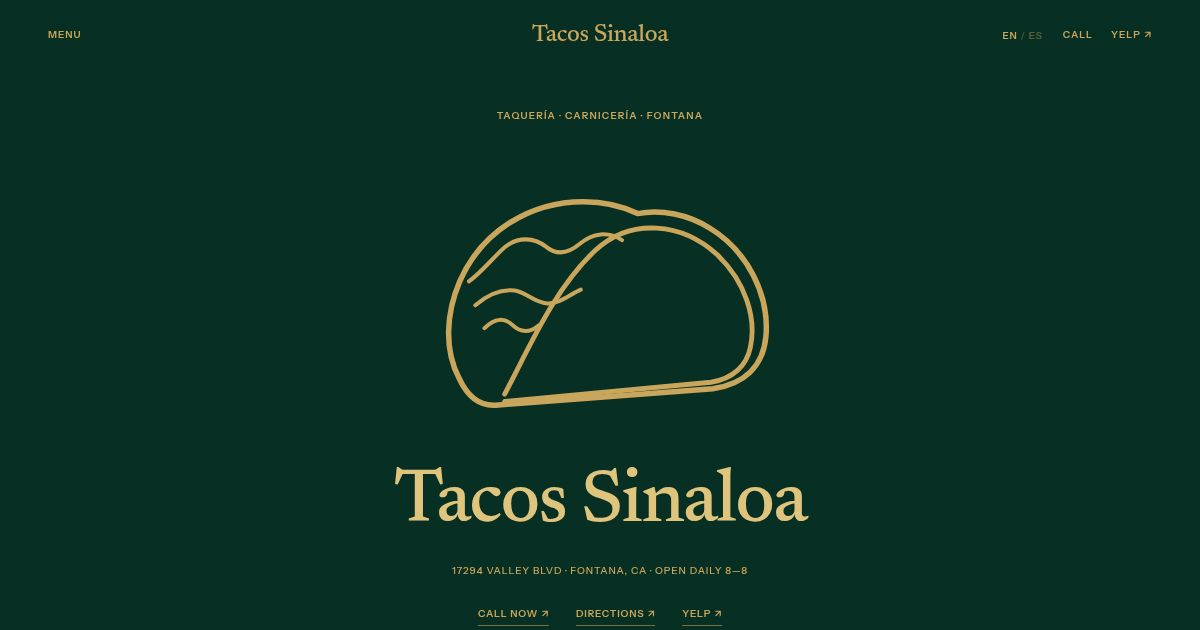
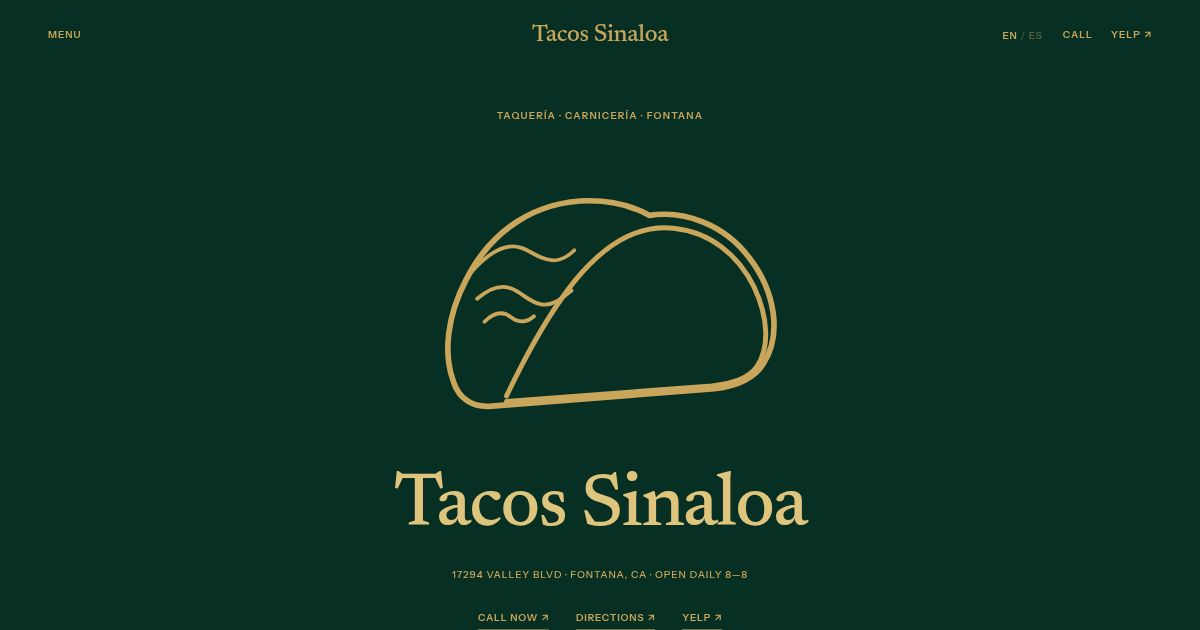
Refine taco mark and motion system v6.2

diff --git a/index.html b/index.html
@@ -22,12 +22,12 @@
 
 <svg class="svg-defs" width="0" height="0" aria-hidden="true">
   <defs>
-    <symbol id="luxuryTacoMark" viewBox="0 0 480 320">
-      <path class="logo-shell" fill="none" stroke="currentColor" stroke-width="6" stroke-linecap="round" stroke-linejoin="round" d="M86 244C70 213 72 174 87 139C111 84 164 52 222 52C243 52 263 56 281 65C307 60 336 66 360 81C401 106 425 154 421 199C418 232 397 251 363 256L126 274C108 275 95 264 86 244Z"/>
-      <path class="logo-face" fill="none" stroke="currentColor" stroke-width="5.3" stroke-linecap="round" stroke-linejoin="round" d="M136 262C163 211 190 147 235 105C274 69 330 75 368 110C399 140 411 179 404 211C400 231 385 245 361 249L136 270"/>
-      <path class="logo-fill" fill="none" stroke="currentColor" stroke-width="4.4" stroke-linecap="round" stroke-linejoin="round" d="M97 139C112 128 123 113 137 101C151 90 168 91 181 101C193 111 205 109 218 98C232 86 249 84 264 94"/>
-      <path class="logo-fill" fill="none" stroke="currentColor" stroke-width="4.4" stroke-linecap="round" stroke-linejoin="round" d="M104 165C118 153 132 147 147 149C160 151 168 162 182 163C196 164 207 153 219 148"/>
-      <path class="logo-fill" fill="none" stroke="currentColor" stroke-width="4.4" stroke-linecap="round" stroke-linejoin="round" d="M114 190C125 179 136 178 145 187C153 195 164 195 173 187"/>
+    <symbol id="luxuryTacoMarkV62" viewBox="0 0 480 320">
+      <path class="logo-shell" fill="none" stroke="currentColor" stroke-width="6.2" stroke-linecap="round" stroke-linejoin="round" d="M80 248C69 218 73 177 94 137C122 82 171 51 229 51C252 51 274 56 294 67C334 61 376 78 402 112C431 149 439 197 418 229C408 245 390 253 365 256L122 275C101 277 86 267 80 248Z"/>
+      <path class="logo-face" fill="none" stroke="currentColor" stroke-width="5.4" stroke-linecap="round" stroke-linejoin="round" d="M138 264C157 224 181 178 212 139C247 96 283 77 320 81C360 85 391 110 408 145C424 179 425 212 411 232C402 245 385 250 362 253L138 270"/>
+      <path class="logo-fill" fill="none" stroke="currentColor" stroke-width="4.2" stroke-linecap="round" stroke-linejoin="round" d="M96 133C111 115 126 103 141 101C155 99 164 108 176 113C190 119 201 116 212 105"/>
+      <path class="logo-fill" fill="none" stroke="currentColor" stroke-width="4.2" stroke-linecap="round" stroke-linejoin="round" d="M106 158C120 146 132 142 144 147C156 152 163 162 176 164C189 166 199 157 209 149"/>
+      <path class="logo-fill" fill="none" stroke="currentColor" stroke-width="4.2" stroke-linecap="round" stroke-linejoin="round" d="M114 183C124 173 134 171 143 178C151 184 160 184 168 177"/>
     </symbol>
   </defs>
 </svg>
@@ -44,85 +44,87 @@
 
 <main id="main">
   <section class="hero" id="top">
-    <div class="hero-eyebrow">TAQUERÍA · CARNICERÍA · FONTANA</div>
-    <svg class="luxury-taco-mark" viewBox="0 0 480 320" role="img" aria-label="Tacos Sinaloa taco emblem"><use href="#luxuryTacoMark"/></svg>
-    <h1>Tacos Sinaloa</h1>
-    <p class="hero-location">17294 VALLEY BLVD · FONTANA, CA · OPEN DAILY 8—8</p>
-    <div class="hero-actions">
-      <a href="tel:+19098236253" data-i18n="call_now">Call now ↗</a>
-      <a href="https://www.google.com/maps/dir/?api=1&destination=17294+Valley+Blvd,+Fontana,+CA+92335" target="_blank" rel="noreferrer" data-i18n="directions">Directions ↗</a>
-      <a href="https://www.yelp.com/search?find_desc=Tacos%20Sinaloa%20Y%20Carniceria&find_loc=17294%20Valley%20Blvd%2C%20Fontana%2C%20CA%2092335" target="_blank" rel="noreferrer">Yelp ↗</a>
+    <div class="hero-core">
+      <div class="hero-eyebrow">TAQUERÍA · CARNICERÍA · FONTANA</div>
+      <svg class="luxury-taco-mark" viewBox="0 0 480 320" role="img" aria-label="Tacos Sinaloa taco emblem"><use href="#luxuryTacoMarkV62"/></svg>
+      <h1>Tacos Sinaloa</h1>
+      <p class="hero-location">17294 VALLEY BLVD · FONTANA, CA · OPEN DAILY 8—8</p>
+      <div class="hero-actions">
+        <a href="tel:+19098236253" data-i18n="call_now">Call now ↗</a>
+        <a href="https://www.google.com/maps/dir/?api=1&destination=17294+Valley+Blvd,+Fontana,+CA+92335" target="_blank" rel="noreferrer" data-i18n="directions">Directions ↗</a>
+        <a href="https://www.yelp.com/search?find_desc=Tacos%20Sinaloa%20Y%20Carniceria&find_loc=17294%20Valley%20Blvd%2C%20Fontana%2C%20CA%2092335" target="_blank" rel="noreferrer">Yelp ↗</a>
+      </div>
     </div>
   </section>
 
-  <section class="facts" aria-label="Business information">
-    <div class="fact">
+  <section class="facts" aria-label="Business information" data-motion-section>
+    <div class="fact" data-motion="reveal">
       <span data-i18n="hours">Hours</span>
       <strong>8:00 AM — 8:00 PM</strong>
       <small data-i18n="daily">Monday — Sunday</small>
     </div>
-    <div class="fact">
+    <div class="fact" data-motion="reveal">
       <span data-i18n="location">Location</span>
       <strong>17294 Valley Blvd</strong>
       <small>Fontana, CA 92335</small>
     </div>
-    <div class="fact">
+    <div class="fact" data-motion="reveal">
       <span data-i18n="phone">Phone</span>
       <strong><a href="tel:+19098236253">(909) 823-6253</a></strong>
       <small data-i18n="call_menu">Call for today's menu</small>
     </div>
   </section>
 
-  <section class="intro-section">
-    <div class="section-copy">
+  <section class="intro-section" data-motion-section>
+    <div class="section-copy" data-motion="reveal">
       <span class="eyebrow">TAQUERÍA + CARNICERÍA</span>
       <h2 data-i18n="intro_title">Taquería &amp; Carnicería</h2>
       <p data-i18n="intro_copy">Mexican food from the kitchen and a carnicería counter under one roof on Valley Blvd.</p>
     </div>
     <div class="editorial-gallery" aria-label="Restaurant photography">
-      <figure class="editorial-photo editorial-one">
+      <figure class="editorial-photo editorial-one" data-motion="image">
         <img src="./assets/tacos-hero.jpg" alt="Tacos from the restaurant" loading="lazy" />
         <figcaption>TAQUERÍA / 01</figcaption>
       </figure>
-      <figure class="editorial-photo editorial-two">
+      <figure class="editorial-photo editorial-two" data-motion="image">
         <img src="./assets/carniceria.jpg" alt="Carnicería counter" loading="lazy" />
         <figcaption>CARNICERÍA / 02</figcaption>
       </figure>
-      <figure class="editorial-photo editorial-three">
+      <figure class="editorial-photo editorial-three" data-motion="image">
         <img src="./assets/tacos.jpg" alt="Prepared tacos" loading="lazy" />
         <figcaption>VALLEY BLVD / 03</figcaption>
       </figure>
     </div>
   </section>
 
-  <section class="menu-section" id="menu">
-    <header class="section-heading">
+  <section class="menu-section" id="menu" data-motion-section>
+    <header class="section-heading" data-motion="reveal">
       <span class="eyebrow" data-i18n="kitchen">From the kitchen</span>
       <h2 data-i18n="menu_title">Menu</h2>
       <p data-i18n="menu_note">Public listings consistently mention these favorites. Call to confirm today's preparation and availability.</p>
     </header>
     <div class="menu-list">
-      <a class="menu-row" href="tel:+19098236253"><span>01</span><strong>Tacos</strong></a>
-      <a class="menu-row" href="tel:+19098236253"><span>02</span><strong>Birria</strong></a>
-      <a class="menu-row" href="tel:+19098236253"><span>03</span><strong>Menudo</strong></a>
-      <a class="menu-row" href="tel:+19098236253"><span>04</span><strong data-i18n="today_menu">Today's Menu</strong></a>
+      <a class="menu-row" data-motion="reveal" href="tel:+19098236253"><span>01</span><strong>Tacos</strong></a>
+      <a class="menu-row" data-motion="reveal" href="tel:+19098236253"><span>02</span><strong>Birria</strong></a>
+      <a class="menu-row" data-motion="reveal" href="tel:+19098236253"><span>03</span><strong>Menudo</strong></a>
+      <a class="menu-row" data-motion="reveal" href="tel:+19098236253"><span>04</span><strong data-i18n="today_menu">Today's Menu</strong></a>
     </div>
   </section>
 
-  <section class="counter-section" id="carniceria">
-    <div class="section-copy">
+  <section class="counter-section" id="carniceria" data-motion-section>
+    <div class="section-copy" data-motion="reveal">
       <span class="eyebrow" data-i18n="counter">From the counter</span>
       <h2 data-i18n="counter_title">Carnicería</h2>
       <p data-i18n="counter_copy">A neighborhood meat counter alongside the taquería. Call or stop in to ask about today's selection.</p>
       <a class="text-link" href="tel:+19098236253" data-i18n="ask_counter">Ask the counter ↗</a>
     </div>
-    <figure class="counter-photo">
+    <figure class="counter-photo" data-motion="image">
       <img src="./assets/carniceria.jpg" alt="Meat counter at Tacos Sinaloa y Carnicería" loading="lazy" />
       <figcaption>CARNICERÍA / FONTANA</figcaption>
     </figure>
   </section>
 
-  <section class="visit-section" id="visit">
+  <section class="visit-section" id="visit" data-motion-section data-motion="reveal">
     <span class="eyebrow" data-i18n="visit">Visit</span>
     <h2 data-i18n="visit_title">Valley Blvd., Fontana</h2>
     <address>Tacos Sinaloa y Carnicería<br/>17294 Valley Blvd<br/>Fontana, CA 92335</address>
@@ -134,8 +136,8 @@
   </section>
 </main>
 
-<footer class="footer">
-  <svg class="footer-mark" viewBox="0 0 480 320" aria-hidden="true"><use href="#luxuryTacoMark"/></svg>
+<footer class="footer" data-motion-section data-motion="reveal">
+  <svg class="footer-mark" viewBox="0 0 480 320" aria-hidden="true"><use href="#luxuryTacoMarkV62"/></svg>
   <a href="#top" class="footer-brand">Tacos Sinaloa</a>
   <div class="footer-meta"><span>TAQUERÍA · CARNICERÍA · FONTANA</span><span>© <b id="year"></b></span></div>
 </footer>

diff --git a/styles.css b/styles.css
@@ -77,7 +77,46 @@ button,a{-webkit-tap-highlight-color:transparent}
 .footer-meta{width:100%;display:flex;justify-content:space-between;font:600 9px var(--sans);letter-spacing:.09em;text-transform:uppercase;margin-top:42px}
 .mobile-bar{display:none;opacity:0;transform:translateY(12px);transition:opacity .22s ease,transform .22s ease}
 
-@media(prefers-reduced-motion:reduce){*,*::before,*::after{animation:none!important;transition:none!important;scroll-behavior:auto!important}}
+
+/* v6.2 motion system: identity-led, progressive, no scroll hijacking */
+.hero-core{will-change:transform;transform-origin:50% 48%}
+.motion-ready .hero-eyebrow,
+.motion-ready .luxury-taco-mark,
+.motion-ready .hero h1,
+.motion-ready .hero-location,
+.motion-ready .hero-actions{opacity:0;transform:translateY(10px);transition:opacity .72s cubic-bezier(.2,.7,.2,1),transform .72s cubic-bezier(.2,.7,.2,1)}
+.motion-ready .luxury-taco-mark{transform:translateY(10px) scale(.97)}
+.motion-ready.hero-entered .hero-eyebrow{opacity:1;transform:none;transition-delay:.05s}
+.motion-ready.hero-entered .luxury-taco-mark{opacity:1;transform:none;transition-delay:.14s}
+.motion-ready.hero-entered .hero h1{opacity:1;transform:none;transition-delay:.24s}
+.motion-ready.hero-entered .hero-location{opacity:1;transform:none;transition-delay:.32s}
+.motion-ready.hero-entered .hero-actions{opacity:1;transform:none;transition-delay:.40s}
+
+.motion-ready [data-motion="reveal"]{opacity:0;transform:translateY(18px);transition:opacity .68s cubic-bezier(.2,.7,.2,1),transform .68s cubic-bezier(.2,.7,.2,1)}
+.motion-ready [data-motion="reveal"].is-visible{opacity:1;transform:none}
+
+[data-motion="image"]{overflow:hidden}
+.motion-ready [data-motion="image"]{clip-path:inset(0 100% 0 0);transition:clip-path .82s cubic-bezier(.65,0,.25,1)}
+.motion-ready [data-motion="image"] img{transform:scale(1.025);transition:transform 1s cubic-bezier(.2,.7,.2,1)}
+.motion-ready [data-motion="image"].is-visible{clip-path:inset(0 0 0 0)}
+.motion-ready [data-motion="image"].is-visible img{transform:scale(1)}
+
+section[data-motion-section],footer[data-motion-section]{position:relative}
+section[data-motion-section]::before,footer[data-motion-section]::before{content:"";position:absolute;top:0;left:var(--pad);height:1px;width:0;background:var(--gold-muted);transition:width .82s cubic-bezier(.65,0,.25,1)}
+.motion-ready section[data-motion-section].is-motion-visible::before,
+.motion-ready footer[data-motion-section].is-motion-visible::before{width:calc(100% - (var(--pad) * 2))}
+
+.menu-row strong{transition:transform .2s ease,color .2s ease}
+.menu-row:hover,.menu-row:focus-visible{padding-left:0}
+.menu-row:hover strong,.menu-row:focus-visible strong{transform:translateX(6px);color:var(--gold-bright)}
+.menu-row:focus-visible{outline-offset:-3px}
+\n@media(prefers-reduced-motion:reduce){
+  *,*::before,*::after{animation:none!important;transition:none!important;scroll-behavior:auto!important}
+  .motion-ready .hero-eyebrow,.motion-ready .luxury-taco-mark,.motion-ready .hero h1,.motion-ready .hero-location,.motion-ready .hero-actions,
+  .motion-ready [data-motion="reveal"],.motion-ready [data-motion="image"]{opacity:1!important;transform:none!important;clip-path:none!important}
+  .motion-ready [data-motion="image"] img{transform:none!important}
+  section[data-motion-section]::before,footer[data-motion-section]::before{width:calc(100% - (var(--pad) * 2))!important}
+}
 
 @media(max-width:860px){
   .site-nav{grid-template-columns:1fr auto}.nav-menu{display:none}.brand{justify-self:start}.nav-yelp{display:none}

diff --git a/script.js b/script.js
@@ -20,3 +20,58 @@ if(hero){
   },{threshold:.08});
   barObserver.observe(hero);
 }
+
+const motionQuery=matchMedia("(prefers-reduced-motion: reduce)");
+const motionOK=!motionQuery.matches;
+if(motionOK){
+  document.documentElement.classList.add("motion-ready");
+  requestAnimationFrame(()=>requestAnimationFrame(()=>document.documentElement.classList.add("hero-entered")));
+
+  const motionItems=[...document.querySelectorAll("[data-motion]")];
+  const motionObserver=new IntersectionObserver(entries=>{
+    entries.forEach(entry=>{
+      if(entry.isIntersecting){
+        entry.target.classList.add("is-visible");
+        motionObserver.unobserve(entry.target);
+      }
+    });
+  },{threshold:.08,rootMargin:"0px 0px -7% 0px"});
+  motionItems.forEach((el,i)=>{
+    el.style.transitionDelay=(Math.min((i%4)*55,165))+"ms";
+    motionObserver.observe(el);
+  });
+
+  const sections=[...document.querySelectorAll("[data-motion-section]")];
+  const sectionObserver=new IntersectionObserver(entries=>{
+    entries.forEach(entry=>{
+      if(entry.isIntersecting){
+        entry.target.classList.add("is-motion-visible");
+        sectionObserver.unobserve(entry.target);
+      }
+    });
+  },{threshold:.02,rootMargin:"0px 0px -12% 0px"});
+  sections.forEach(el=>sectionObserver.observe(el));
+
+  const heroCore=document.querySelector(".hero-core");
+  let ticking=false;
+  const updateHeroMotion=()=>{
+    ticking=false;
+    if(!heroCore)return;
+    const y=Math.max(0,scrollY);
+    const shift=Math.min(y*.028,18);
+    const scale=1-Math.min(y/14000,.022);
+    heroCore.style.transform="translate3d(0,"+shift+"px,0) scale("+scale+")";
+  };
+  addEventListener("scroll",()=>{
+    if(!ticking){
+      ticking=true;
+      requestAnimationFrame(updateHeroMotion);
+    }
+  },{passive:true});
+  updateHeroMotion();
+
+  setTimeout(()=>{
+    motionItems.forEach(el=>el.classList.add("is-visible"));
+    sections.forEach(el=>el.classList.add("is-motion-visible"));
+  },1800);
+}

diff --git a/README.md b/README.md
@@ -1,26 +1,31 @@
-# Tacos Sinaloa y Carnicería — Owner Preview v6.1.1
+# Tacos Sinaloa y Carnicería — Owner Preview v6.2
 
-Typography-tightened luxury-minimal candidate.
+Professional logo + motion refinement.
 
-## Direction
+## Identity
+- more taco-explicit custom Taco Mark with open shell and layered filling edge
 - forest green + antique gold only
-- custom taco emblem
-- Newsreader for brand and major display headings only
-- Instrument Sans for navigation, facts, body copy, and menu rows
-- reduced display scale and tracking
-- literal section naming instead of slogan-heavy copy
-- tighter vertical rhythm
+- Newsreader + Instrument Sans typography
 - small editorial food photography
 - Yelp, Call, and Directions actions
-- mobile CTA hidden during hero, revealed after first scroll
+
+## Motion
+- sequenced hero entrance
+- subtle hero drift/scale on scroll
+- masked photo reveals with tiny image settle
+- gold section-rule draw
+- restrained menu text movement
+- no smooth-scroll hijacking
+- no infinite decorative animation
+- reduced-motion opt-out
+- visibility fallback after 1.8s
 
 ## Verification
-- 390px mobile: no horizontal overflow
-- 1024px tablet: no horizontal overflow
-- 1440px desktop: no horizontal overflow
-- computed font family checks pass
+- 390px mobile / 1024px tablet / 1440px desktop: no overflow
+- hosted motion state verified
+- no page errors
+- all reveal content forced visible after fallback
+- reduced-motion leaves all content visible
 - EN/ES verified
 - Yelp links verified
-- mobile action bar behavior verified
-- green/gold-only UI tokens
-- local fonts, favicon, Apple icon, social image
+- favicon, Apple icon, and social image updated to v6.2 mark
